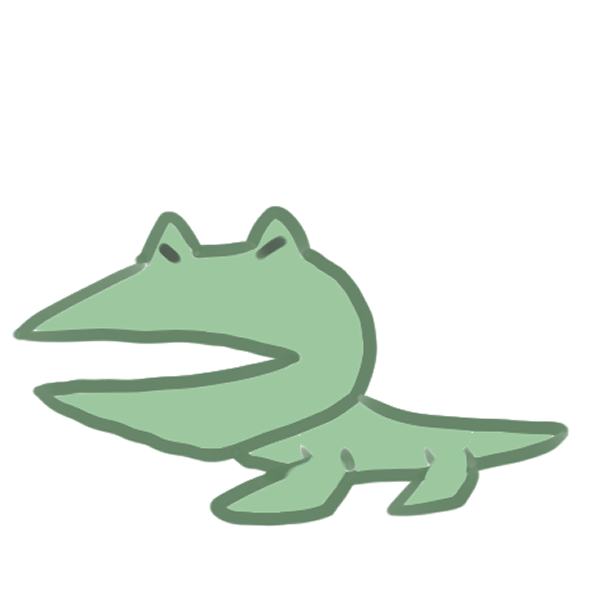
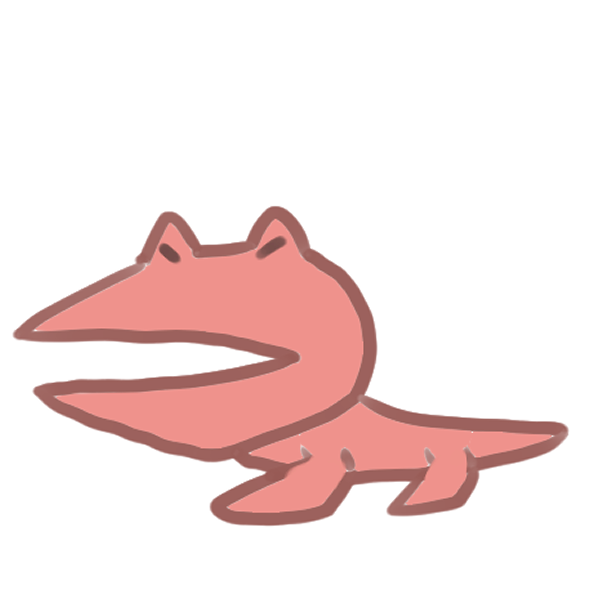
火山 仮実装

Changed region(s): [[0.0, 0.33, 0.96, 0.9]]

diff --git a/backend/app/Enums/Rpg/EnemyData.php b/backend/app/Enums/Rpg/EnemyData.php
@@ -12,8 +12,10 @@ enum EnemyData: int
     case Scorpio = 21;
     case RockRizard = 22;
 
-    case Norawani = 30;
-    case Oyadamawani = 31;
+    case Bou = 30;
+    case IwaMet = 31;
+    case Norawani = 32;
+    case MagmaDile = 33;
 
     case MageSrara = 40;
     case Clion = 41;
@@ -35,8 +37,10 @@ enum EnemyData: int
             self::Scorpio => 'スコーピオ',
             self::RockRizard => 'ロックリザード',
 
+            self::Bou => 'ボウ',
+            self::IwaMet => 'イワメット',
             self::Norawani => 'ノラワニ',
-            self::Oyadamawani => 'オヤダマワニ',
+            self::MagmaDile => 'マグマダイル',
 
             self::MageSrara => 'メイジスララ',
             self::Clion => 'クリオン',
@@ -54,20 +58,22 @@ enum EnemyData: int
     {
         return match ($this) {
             self::Srara => '冒険者の前に立ちはだかる最初の敵。油断禁物！',
-            self::Gao => '素早い動きが特徴。攻撃力が高めなので早めに倒そう。',
-            self::BigSrara => 'スララの合成体。相変わらず鈍重だが生命力は侮れない。',
+            self::Gao => '素早い動きが特徴。攻撃力が高いため、優先的に倒そう。',
+            self::BigSrara => 'スララが偶然合体した生物。消化液で防御力を落としてくるのがいやらしい。',
 
-            self::Rizard => '',
-            self::Scorpio => '',
-            self::RockRizard => '',
+            self::Rizard => '砂漠に生息するトカゲ。防御力には自信あり。',
+            self::Scorpio => '致命の一撃を得意とするサソリ。魔法に弱いので、早めに倒してしまおう。',
+            self::RockRizard => '頑丈な皮膚を持つトカゲの大将。魔法攻撃で攻めよう。',
 
-            self::Norawani => '草むらを彷徨いている野良のワニ。バランスの良いステータスが特徴。',
-            self::Oyadamawani => 'ノラワニ達を仕切る強力なワニ。鋭い歯を持ち、噛まれたらひとたまりもない',
+            self::Bou => '炎のマナが集まってできた生命体。集団で出てくるため、全体攻撃でさっさと倒そう。',
+            self::IwaMet => '防御が自慢のカメ。魔法での攻撃が有効。',
+            self::Norawani => '火山を彷徨く野良のワニ。生命力が高くバランスの良いステータスが特徴。',
+            self::MagmaDile => 'ノラワニ達を仕切るボス。咆哮で攻撃力を上げてから、最後に暴れ回る。',
 
-            self::MageSrara => 'メイジスララ',
-            self::Clion => 'クリオン',
+            self::MageSrara => 'スララの変異体。冒険者の杖を振り回して簡易的な魔法を使う。',
+            self::Clion => 'ふよふよと浮遊する生命体。吐き出す泡は強力なので、吐かれる前にさっさと倒してしまおう。',
             self::Ikkaku => '頑丈な甲殻を持つ。立派なツノから呼ばれる雷攻撃には要注意。',
-            self::SpikeWhale => 'スパイクホエール',
+            self::SpikeWhale => '海岸のボス。特定のタイミングで大波を呼んでくるので、タイミングを覚えて身構えよう。',
 
             self::HighSrara => 'スララの変異体。バランスの良いパラメータを持つ。',
 
@@ -86,8 +92,10 @@ enum EnemyData: int
             self::Scorpio => 'scorpio.png',
             self::RockRizard => 'rockrizard.png',
 
+            self::Bou => 'bou.png',
+            self::IwaMet => 'iwamet.png',
             self::Norawani => 'norawani.png',
-            self::Oyadamawani => 'oyadamawani.png',
+            self::MagmaDile => 'MagmaDile.png',
 
             self::MageSrara => 'magesrara.png',
             self::Clion => 'clion.png',
@@ -122,7 +130,10 @@ enum EnemyData: int
     public static function volcanoAppearingEnemies(): array
     {
         return [
-            self::Scorpio->value,
+            self::Bou->value,
+            self::IwaMet->value,
+            self::Norawani->value,
+            self::MagmaDile->value,
         ];
     }
 

diff --git a/backend/database/seeders/rpg/EnemyTableSeeder.php b/backend/database/seeders/rpg/EnemyTableSeeder.php
@@ -77,10 +77,10 @@ class EnemyTableSeeder extends Seeder
             [
                 'id' => EnemyData::Rizard,
                 'name' => EnemyData::Rizard->label(),
-                'value_hp' => 140,
+                'value_hp' => 130,
                 'value_ap' => 20,
                 'value_str' => 25,
-                'value_def' => 20,
+                'value_def' => 55,
                 'value_int' => 0,
                 'value_spd' => 35,
                 'value_luc' => 0,
@@ -114,7 +114,7 @@ class EnemyTableSeeder extends Seeder
                 'value_hp' => 400,
                 'value_ap' => 30,
                 'value_str' => 50,
-                'value_def' => 60,
+                'value_def' => 80,
                 'value_int' => 0,
                 'value_spd' => 40,
                 'value_luc' => 0,
@@ -128,36 +128,70 @@ class EnemyTableSeeder extends Seeder
                 'updated_at' => $now,
             ],
             [
+                'id' => EnemyData::Bou,
+                'name' => EnemyData::Bou->label(),
+                'value_hp' => 30,
+                'value_ap' => 30,
+                'value_str' => 10,
+                'value_def' => 0,
+                'value_int' => 30,
+                'value_spd' => 15,
+                'value_luc' => 0,
+                'exp' => 12,
+                'drop_money' => 10,
+                'portrait_image_path' => EnemyData::Bou->image_path(),
+                'description' => EnemyData::Bou->description(),
+                'created_at' => $now,
+                'updated_at' => $now,
+            ],
+            [
+                'id' => EnemyData::IwaMet,
+                'name' => EnemyData::IwaMet->label(),
+                'value_hp' => 100,
+                'value_ap' => 0,
+                'value_str' => 25,
+                'value_def' => 100,
+                'value_int' => 10,
+                'value_spd' => 25,
+                'value_luc' => 0,
+                'exp' => 50,
+                'drop_money' => 20,
+                'portrait_image_path' => EnemyData::IwaMet->image_path(),
+                'description' => EnemyData::IwaMet->description(),
+                'created_at' => $now,
+                'updated_at' => $now,
+            ],
+            [
                 'id' => EnemyData::Norawani,
                 'name' => EnemyData::Norawani->label(),
                 'value_hp' => 160,
                 'value_ap' => 0,
-                'value_str' => 25,
-                'value_def' => 20,
-                'value_int' => 20,
-                'value_spd' => 25,
+                'value_str' => 30,
+                'value_def' => 30,
+                'value_int' => 30,
+                'value_spd' => 30,
                 'value_luc' => 0,
-                'exp' => 100,
-                'drop_money' => 50,
+                'exp' => 75,
+                'drop_money' => 30,
                 'portrait_image_path' => EnemyData::Norawani->image_path(),
                 'description' => EnemyData::Norawani->description(),
                 'created_at' => $now,
                 'updated_at' => $now,
             ],
             [
-                'id' => EnemyData::Oyadamawani,
-                'name' => EnemyData::Oyadamawani->label(),
-                'value_hp' => 600,
-                'value_ap' => 30,
+                'id' => EnemyData::MagmaDile,
+                'name' => EnemyData::MagmaDile->label(),
+                'value_hp' => 500,
+                'value_ap' => 40,
                 'value_str' => 50,
                 'value_def' => 50,
                 'value_int' => 20,
                 'value_spd' => 40,
                 'value_luc' => 30,
-                'exp' => 1500,
-                'drop_money' => 500,
-                'portrait_image_path' => EnemyData::Oyadamawani->image_path(),
-                'description' => EnemyData::Oyadamawani->description(),
+                'exp' => 150,
+                'drop_money' => 50,
+                'portrait_image_path' => EnemyData::MagmaDile->image_path(),
+                'description' => EnemyData::MagmaDile->description(),
                 'is_boss' => true,
                 'has_pattern' => true,
                 'created_at' => $now,

diff --git a/backend/database/seeders/rpg/EnemyLearnedSkillTableSeeder.php b/backend/database/seeders/rpg/EnemyLearnedSkillTableSeeder.php
@@ -20,14 +20,17 @@ class EnemyLearnedSkillTableSeeder extends Seeder
             // ビッグスララ
             ['enemy_id' => EnemyData::BigSrara, 'skill_id' => SkillDefinition::DigestiveFluid, 'skill_level' => 1],
 
-            // イッカク
-            ['enemy_id' => EnemyData::Ikkaku, 'skill_id' => SkillDefinition::Biribiri, 'skill_level' => 1],
-            ['enemy_id' => EnemyData::Ikkaku, 'skill_id' => SkillDefinition::Discharge, 'skill_level' => 1],
+            // ボウ
+            ['enemy_id' => EnemyData::Bou, 'skill_id' => SkillDefinition::Fire, 'skill_level' => 1],
 
-            // オヤダマワニ
-            ['enemy_id' => EnemyData::Oyadamawani, 'skill_id' => SkillDefinition::Bite, 'skill_level' => 1],
-            ['enemy_id' => EnemyData::Oyadamawani, 'skill_id' => SkillDefinition::Rampage, 'skill_level' => 1],
-            ['enemy_id' => EnemyData::Oyadamawani, 'skill_id' => SkillDefinition::Roar, 'skill_level' => 1],
+            // マグマダイル
+            ['enemy_id' => EnemyData::MagmaDile, 'skill_id' => SkillDefinition::Bite, 'skill_level' => 1],
+            ['enemy_id' => EnemyData::MagmaDile, 'skill_id' => SkillDefinition::Rampage, 'skill_level' => 1],
+            ['enemy_id' => EnemyData::MagmaDile, 'skill_id' => SkillDefinition::Roar, 'skill_level' => 1],
+
+            // 敵バフ系 検証用 オヤダマワニ
+            // ['enemy_id' => 5, 'skill_id' => SkillDefinition::EnemyGuardSpell, 'skill_level' => 1],
+            // ['enemy_id' => 5, 'skill_id' => SkillDefinition::EnemyAllGuardSpell, 'skill_level' => 1],
 
             // 検証系
             // 敵回復系 検証用 ハイスララ
@@ -36,15 +39,15 @@ class EnemyLearnedSkillTableSeeder extends Seeder
             ['enemy_id' => EnemyData::HighSrara, 'skill_id' => SkillDefinition::Regeneration, 'skill_level' => 1],
             ['enemy_id' => EnemyData::HighSrara, 'skill_id' => SkillDefinition::DigestiveFluid, 'skill_level' => 1],
 
-            // 敵バフ系 検証用 オヤダマワニ
-            // ['enemy_id' => 5, 'skill_id' => SkillDefinition::EnemyGuardSpell, 'skill_level' => 1],
-            // ['enemy_id' => 5, 'skill_id' => SkillDefinition::EnemyAllGuardSpell, 'skill_level' => 1],
-
             // メイジスララ
             ['enemy_id' => EnemyData::MageSrara, 'skill_id' => SkillDefinition::Freeze, 'skill_level' => 1],
 
             // クリオン
             ['enemy_id' => EnemyData::Clion, 'skill_id' => SkillDefinition::Bubble, 'skill_level' => 1],
+
+            // イッカク
+            ['enemy_id' => EnemyData::Ikkaku, 'skill_id' => SkillDefinition::Biribiri, 'skill_level' => 1],
+            ['enemy_id' => EnemyData::Ikkaku, 'skill_id' => SkillDefinition::Discharge, 'skill_level' => 1],
 
             // スパイクホエール
             ['enemy_id' => EnemyData::SpikeWhale, 'skill_id' => SkillDefinition::Wave, 'skill_level' => 1],

diff --git a/backend/database/seeders/rpg/PresetAppearingEnemyTableSeeder.php b/backend/database/seeders/rpg/PresetAppearingEnemyTableSeeder.php
@@ -116,6 +116,60 @@ class PresetAppearingEnemyTableSeeder extends Seeder
                 'number' => 1,
             ],
             // --------- 火山 ---------
+            [
+                'field_id' => FieldData::Volcano,
+                'stage_id' => 1,
+                'enemy_id' => EnemyData::Bou,
+                'number' => 4,
+            ],
+            [
+                'field_id' => FieldData::Volcano,
+                'stage_id' => 2,
+                'enemy_id' => EnemyData::IwaMet,
+                'number' => 1,
+            ],
+            [
+                'field_id' => FieldData::Volcano,
+                'stage_id' => 2,
+                'enemy_id' => EnemyData::Norawani,
+                'number' => 1,
+            ],
+            [
+                'field_id' => FieldData::Volcano,
+                'stage_id' => 3,
+                'enemy_id' => EnemyData::Bou,
+                'number' => 1,
+            ],
+            [
+                'field_id' => FieldData::Volcano,
+                'stage_id' => 3,
+                'enemy_id' => EnemyData::Norawani,
+                'number' => 2,
+            ],
+            [
+                'field_id' => FieldData::Volcano,
+                'stage_id' => 3,
+                'enemy_id' => EnemyData::Bou,
+                'number' => 1,
+            ],
+            [
+                'field_id' => FieldData::Volcano,
+                'stage_id' => 4,
+                'enemy_id' => EnemyData::Norawani,
+                'number' => 1,
+            ],
+            [
+                'field_id' => FieldData::Volcano,
+                'stage_id' => 4,
+                'enemy_id' => EnemyData::MagmaDile,
+                'number' => 1,
+            ],
+            [
+                'field_id' => FieldData::Volcano,
+                'stage_id' => 4,
+                'enemy_id' => EnemyData::Norawani,
+                'number' => 1,
+            ],
             // --------- 海岸 ---------
             [
                 'field_id' => FieldData::Coast,

diff --git a/backend/database/seeders/rpg/EnemyActionPatternTableSeeder.php b/backend/database/seeders/rpg/EnemyActionPatternTableSeeder.php
@@ -19,37 +19,37 @@ class EnemyActionPatternTableSeeder extends Seeder
         $seeds = [
             // オヤダマワニ
             [
-                'enemy_id' => EnemyData::Oyadamawani,
+                'enemy_id' => EnemyData::MagmaDile,
                 'turn_count' => 1,
                 'is_use_skill' => true,
                 'skill_id' => SkillDefinition::Roar,
             ],
             [
-                'enemy_id' => EnemyData::Oyadamawani,
+                'enemy_id' => EnemyData::MagmaDile,
                 'turn_count' => 2,
                 'is_use_skill' => false,
                 'skill_id' => null,
             ],
             [
-                'enemy_id' => EnemyData::Oyadamawani,
+                'enemy_id' => EnemyData::MagmaDile,
                 'turn_count' => 3,
                 'is_use_skill' => true,
                 'skill_id' => SkillDefinition::Bite,
             ],
             [
-                'enemy_id' => EnemyData::Oyadamawani,
+                'enemy_id' => EnemyData::MagmaDile,
                 'turn_count' => 4,
                 'is_use_skill' => false,
                 'skill_id' => null,
             ],
             [
-                'enemy_id' => EnemyData::Oyadamawani,
+                'enemy_id' => EnemyData::MagmaDile,
                 'turn_count' => 5,
                 'is_use_skill' => false,
                 'skill_id' => null,
             ],
             [
-                'enemy_id' => EnemyData::Oyadamawani,
+                'enemy_id' => EnemyData::MagmaDile,
                 'turn_count' => 6,
                 'is_use_skill' => true,
                 'skill_id' => SkillDefinition::Rampage,

diff --git a/backend/database/seeders/rpg/SkillTableSeeder.php b/backend/database/seeders/rpg/SkillTableSeeder.php
@@ -1439,6 +1439,23 @@ class SkillTableSeeder extends Seeder
                 'elemental_id' => 1,
                 'description' => SkillDefinition::Wave->description(),
             ],
+            [
+                'id' => SkillDefinition::Fire->value,
+                'name' => SkillDefinition::Fire->label(),
+                'available_role_id' => Role::ROLE_NONE,
+                'attack_type' => AttackType::Magic->value,
+                'effect_type' => EffectType::Damage->value,
+                'target_range' => TargetRange::Single->value,
+                'is_target_enemy' => true,
+                'lv1_percent' => 0.8,
+                'lv1_ap_cost' => 3,
+                'lv2_percent' => 1.0,
+                'lv2_ap_cost' => 6,
+                'lv3_percent' => 1.5,
+                'lv3_ap_cost' => 9,
+                'elemental_id' => 1,
+                'description' => SkillDefinition::Fire->description(),
+            ],
 
         ];
 

diff --git a/backend/app/Enums/Rpg/SkillDefinition.php b/backend/app/Enums/Rpg/SkillDefinition.php
@@ -59,6 +59,7 @@ enum SkillDefinition: int
     case Freeze = 111;
     case Bubble = 112;
     case Wave = 113;
+    case Fire = 114;
 
     public function label(): string
     {
@@ -111,6 +112,7 @@ enum SkillDefinition: int
             self::Freeze => 'フリーズ', // 攻撃魔法単体
             self::Bubble => 'バブル', // 攻撃魔法全体
             self::Wave => '大波', // 攻撃魔法全体
+            self::Fire => 'ファイアー', // 攻撃魔法単体
 
         };
     }
@@ -166,6 +168,7 @@ enum SkillDefinition: int
             self::Freeze => '氷の呪文で相手単体に魔法攻撃。',
             self::Bubble => '相手全体に泡を撒き散らし、魔法攻撃。',
             self::Wave => '大波を呼び寄せ、相手全体に魔法攻撃。',
+            self::Fire => '炎の呪文で相手単体に魔法攻撃。',
         };
     }
 }

diff --git a/backend/app/Models/Game/Rpg/Skill.php b/backend/app/Models/Game/Rpg/Skill.php
@@ -630,6 +630,11 @@ class Skill extends Model
                     $battle_logs_collection->push("{$actor_data->name}は自慢のツノを怪しく光らせ、大波を呼び寄せた！");
                     $damage = (int) ceil(BattleState::calculateActualStatusValue($actor_data, 'int') * $selected_skill_data->skill_percent);
                     break;
+                case SkillDefinition::Fire :
+                    Debugbar::warning(SkillDefinition::Fire->label());
+                    $battle_logs_collection->push("{$actor_data->name}はファイアを唱えた！");
+                    $damage = (int) ceil(BattleState::calculateActualStatusValue($actor_data, 'int') * $selected_skill_data->skill_percent);
+                    break;
                 default:
                     Debugbar::debug('存在しないスキルが選択されました。');
                     break;
